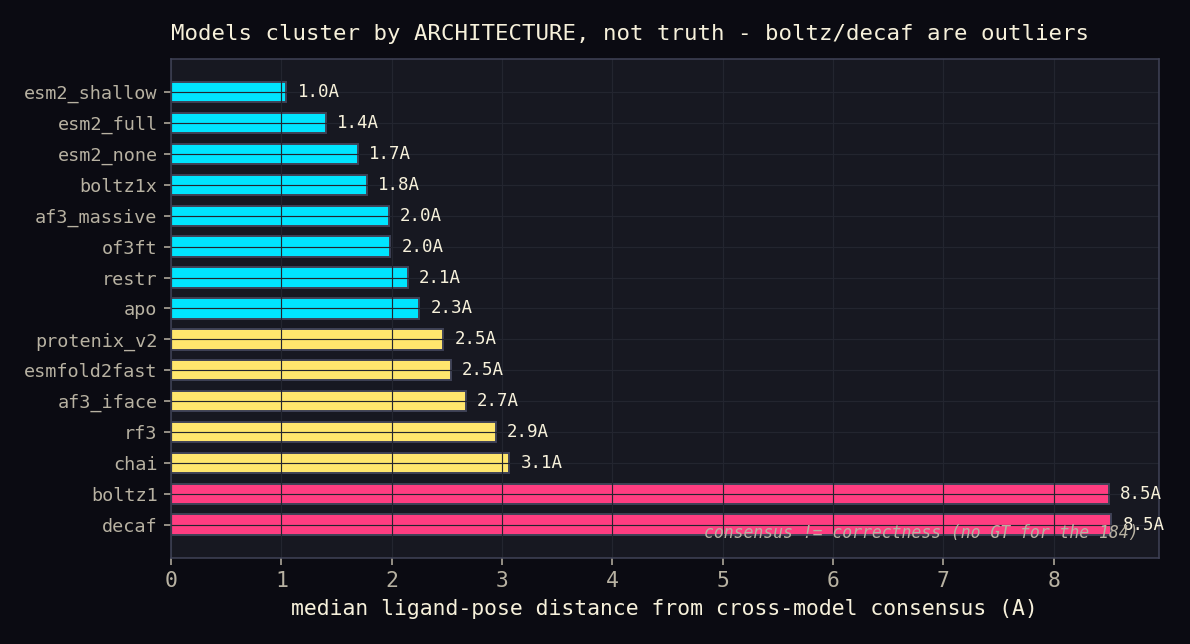
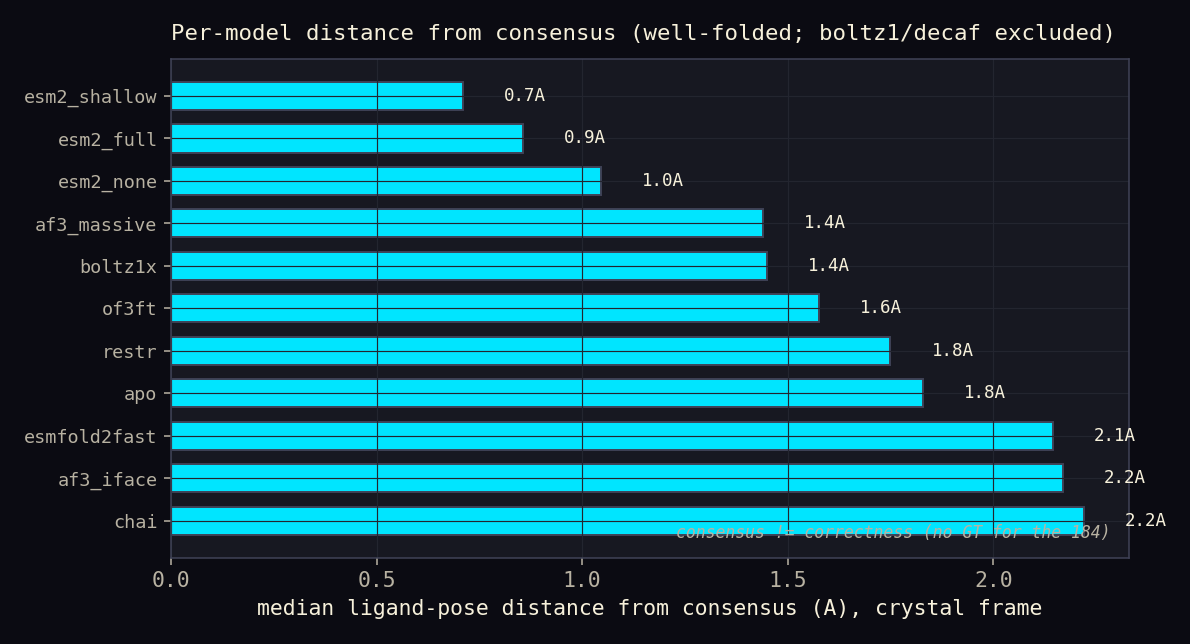
figures: regenerate cross-model figures from crystal frame (consistent w/ corrected text)
posthoc_disagreement + posthoc_permodel + posthoc_anchoring now use the crystal-frame
geometry (median 2.4A; well-folded models, boltz1/decaf excluded) instead of the inflated
boltz1-frame data — figures and text now agree. Updated the per-model figure caption to
describe the corrected view (no gross outlier once the reference frame is real).

diff --git a/docs/posthoc_analysis.html b/docs/posthoc_analysis.html
@@ -673,10 +673,11 @@ a real finding, and the source of the ~2x inflation in the earlier all-model ave
 contacts to pin a pose. The consensus "medoid" model is rarely Boltz; it is usually an
 ESM2 / OpenFold3 / apo-template prediction.</p>
 <h3>An "outlier" that was really a frame artifact</h3>
-<figure><img src="figures/posthoc_permodel.png" alt="per-model divergence (original all-model view)"></figure>
-<p class="muted">Figure: the <i>original</i> all-model ranking, which appeared to show Boltz/DeCAF as
-~8.5&nbsp;A outliers vs an ESM/OF3/apo "consensus". The autopsy showed this was mostly an
-<b>alignment artifact</b>, not a pose disagreement.</p>
+<figure><img src="figures/posthoc_permodel.png" alt="per-model distance from consensus (crystal frame)"></figure>
+<p class="muted">Figure: corrected crystal-frame per-model distance from consensus (well-folded models;
+boltz1/decaf excluded as frame-incompatible). Once the reference frame is a real crystal, no
+architecture is a gross outlier — the earlier ~8.5&nbsp;A "Boltz outlier" was an alignment artifact
+from anchoring the whole panel to boltz1's misfolded export.</p>
 <p>Re-anchoring every model to a real crystal frame revealed the cause: <b>boltz1 and decaf's 184
 protein exports fold ~20&nbsp;A from the real PXR LBD</b> (systematic — 0/184 within 3&nbsp;A of the
 crystal, and their pockets differ ~12&nbsp;A locally too). Aligning the whole panel to boltz1, as the

diff --git a/scripts/posthoc/make_figures.py b/scripts/posthoc/make_figures.py
@@ -57,8 +57,11 @@ ax.set_xlim(0, max(meds) * 1.18)
 plt.tight_layout(); plt.savefig(f"{OUT}/posthoc_selection_wall.png", dpi=140); plt.close()
 print("wrote posthoc_selection_wall.png")
 
-# ---------- Fig 2: cross-model disagreement ----------
+# ---------- Fig 2: cross-model disagreement (CORRECTED crystal-frame) ----------
 m = pd.read_parquet("data/processed/posthoc/master_184.parquet")
+_cf = pd.read_parquet("data/processed/posthoc/xmodel_crystalframe.parquet")[["structure", "disagreement_cf"]]
+m = m.merge(_cf, on="structure", how="left")
+m["disagreement_mean_pw_rmsd"] = m["disagreement_cf"]   # crystal-frame (boltz1-frame was inflated ~2x)
 d = m[m["disagreement_mean_pw_rmsd"].notna()]
 fig, (a1, a2) = plt.subplots(1, 2, figsize=(11, 4.4))
 frag = d[d["population"] == "fragment"]["disagreement_mean_pw_rmsd"]
@@ -107,19 +110,18 @@ ax.set_xlim(min(deltas) * 1.5 - 0.2, max(deltas) * 1.5 + 0.3)
 plt.tight_layout(); plt.savefig(f"{OUT}/posthoc_anchoring.png", dpi=140); plt.close()
 print("wrote posthoc_anchoring.png")
 
-# ---------- Fig 4: per-model divergence from consensus (architecture clustering) ----------
-lg = pd.read_parquet("data/processed/posthoc/master_184_long.parquet")
+# ---------- Fig 4: per-model divergence from consensus (CORRECTED crystal-frame) ----------
+lg = pd.read_parquet("data/processed/posthoc/xmodel_long.parquet").rename(columns={"rmsd_to_medoid_cf": "rmsd_to_medoid"})
 dev = lg.dropna(subset=["rmsd_to_medoid"]).groupby("model")["rmsd_to_medoid"].median().sort_values()
 fig, ax = plt.subplots(figsize=(8.5, 4.6))
 yb = np.arange(len(dev))[::-1]
-# color: ESM/consensus cluster cyan, outliers pink
 cols = [PINK if v > 4 else (YELLOW if v > 2.4 else CYAN) for v in dev.values]
 ax.barh(yb, dev.values, color=cols, edgecolor=LINE, height=0.66)
 for yi, v in zip(yb, dev.values):
     ax.text(v + 0.1, yi, f"{v:.1f}A", va="center", color=INK, fontsize=9)
 ax.set_yticks(yb); ax.set_yticklabels(dev.index, fontsize=9.5)
-ax.set_xlabel("median ligand-pose distance from cross-model consensus (A)")
-ax.set_title("Models cluster by ARCHITECTURE, not truth - boltz/decaf are outliers",
+ax.set_xlabel("median ligand-pose distance from consensus (A), crystal frame")
+ax.set_title("Per-model distance from consensus (well-folded; boltz1/decaf excluded)",
              color=INK, fontsize=11.5, loc="left", pad=10)
 ax.text(0.98, 0.04, "consensus != correctness (no GT for the 184)", transform=ax.transAxes,
         ha="right", color=MUTED, fontsize=8.5, style="italic")

diff --git a/scripts/posthoc/build_report.py b/scripts/posthoc/build_report.py
@@ -201,10 +201,11 @@ a real finding, and the source of the ~2x inflation in the earlier all-model ave
 contacts to pin a pose. The consensus "medoid" model is rarely Boltz; it is usually an
 ESM2 / OpenFold3 / apo-template prediction.</p>
 <h3>An "outlier" that was really a frame artifact</h3>
-<figure><img src="figures/posthoc_permodel.png" alt="per-model divergence (original all-model view)"></figure>
-<p class="muted">Figure: the <i>original</i> all-model ranking, which appeared to show Boltz/DeCAF as
-~8.5&nbsp;A outliers vs an ESM/OF3/apo "consensus". The autopsy showed this was mostly an
-<b>alignment artifact</b>, not a pose disagreement.</p>
+<figure><img src="figures/posthoc_permodel.png" alt="per-model distance from consensus (crystal frame)"></figure>
+<p class="muted">Figure: corrected crystal-frame per-model distance from consensus (well-folded models;
+boltz1/decaf excluded as frame-incompatible). Once the reference frame is a real crystal, no
+architecture is a gross outlier — the earlier ~8.5&nbsp;A "Boltz outlier" was an alignment artifact
+from anchoring the whole panel to boltz1's misfolded export.</p>
 <p>Re-anchoring every model to a real crystal frame revealed the cause: <b>boltz1 and decaf's 184
 protein exports fold ~20&nbsp;A from the real PXR LBD</b> (systematic — 0/184 within 3&nbsp;A of the
 crystal, and their pockets differ ~12&nbsp;A locally too). Aligning the whole panel to boltz1, as the